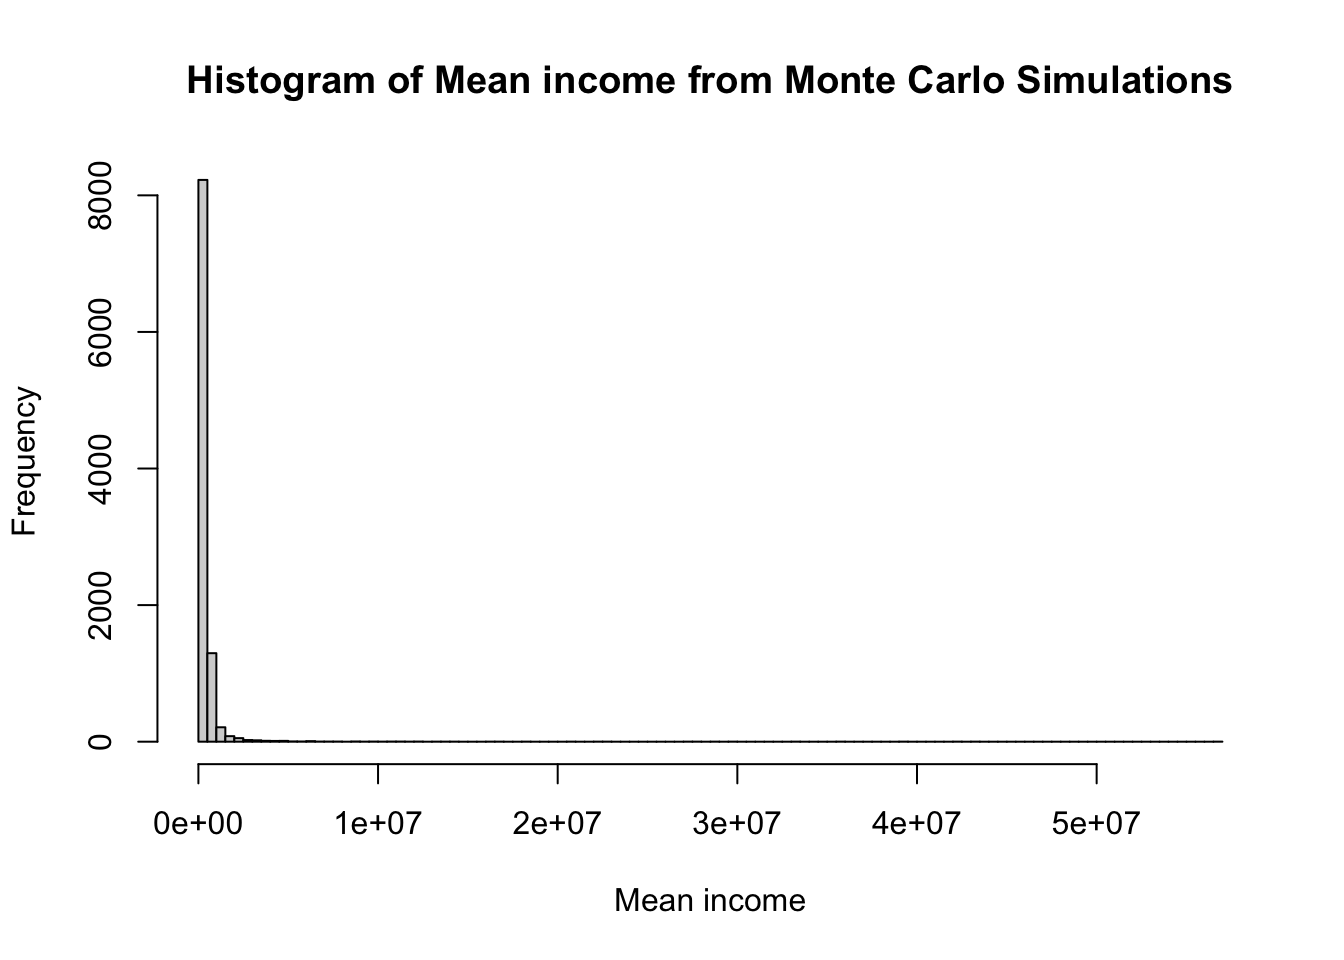
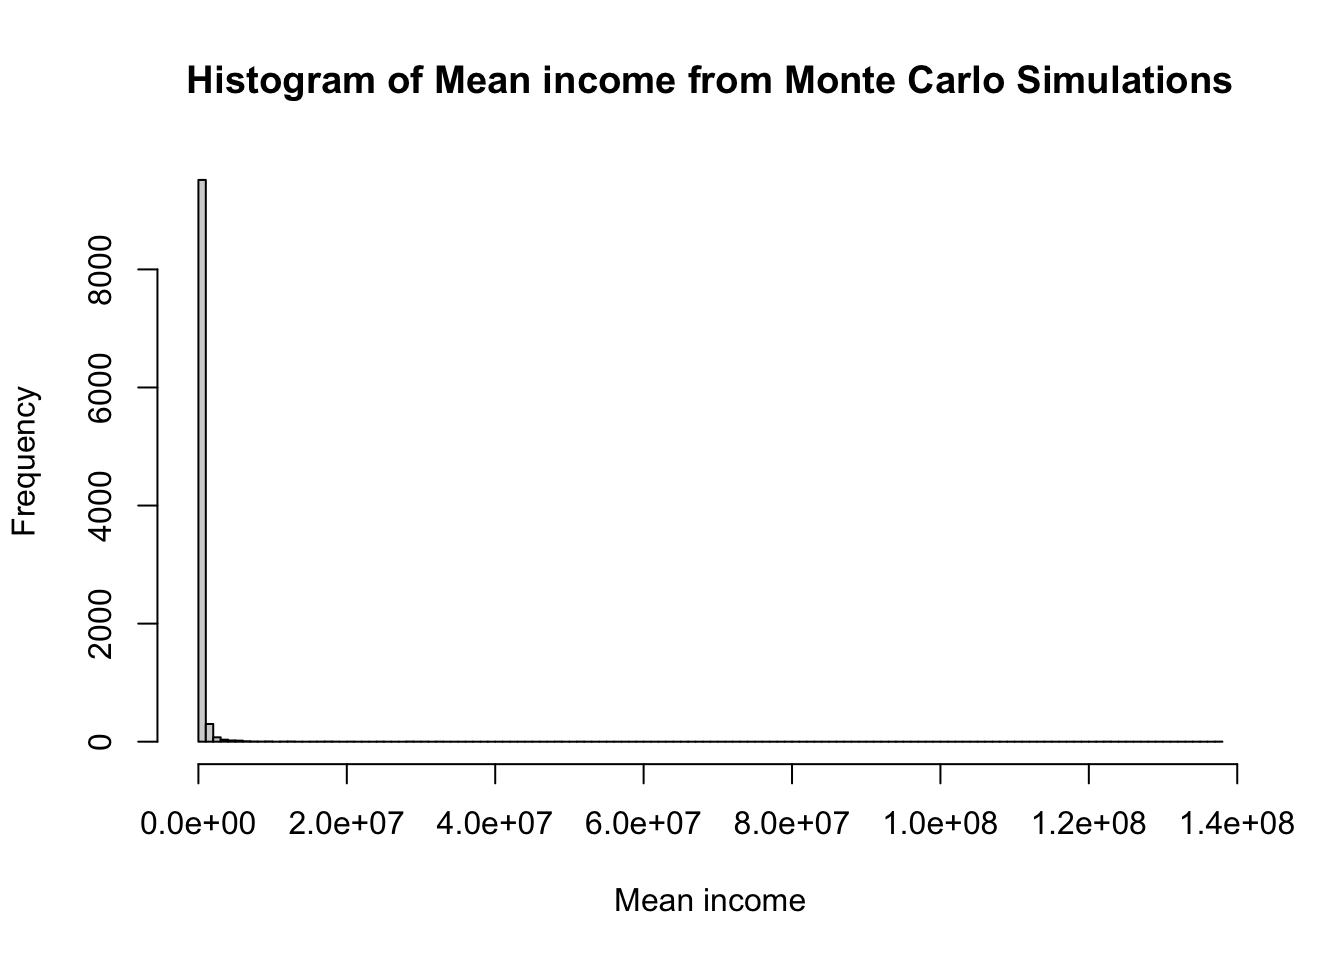
option

diff --git a/docs/Catallactics/Personal/pricing.html b/docs/Catallactics/Personal/pricing.html
@@ -821,7 +821,7 @@ cookieconsent.run({
   </ul></li>
   <li><a href="#option-pricing-calculation" id="toc-option-pricing-calculation" class="nav-link" data-scroll-target="#option-pricing-calculation">Option pricing calculation</a></li>
   <li><a href="#take-home-message" id="toc-take-home-message" class="nav-link" data-scroll-target="#take-home-message">Take home message</a></li>
-  <li><a href="#monitising-the-hedge" id="toc-monitising-the-hedge" class="nav-link" data-scroll-target="#monitising-the-hedge"><strong>Monitising the hedge</strong></a></li>
+  <li><a href="#monetising-the-hedge" id="toc-monetising-the-hedge" class="nav-link" data-scroll-target="#monetising-the-hedge"><strong>Monetising the hedge</strong></a></li>
   </ul>
 </nav>
     </div>
@@ -901,10 +901,10 @@ cookieconsent.run({
 <span id="cb4-2"><a href="#cb4-2" aria-hidden="true" tabindex="-1"></a><span class="fu">library</span>(RQuantLib)</span>
 <span id="cb4-3"><a href="#cb4-3" aria-hidden="true" tabindex="-1"></a></span>
 <span id="cb4-4"><a href="#cb4-4" aria-hidden="true" tabindex="-1"></a><span class="co"># Define option parameters for a single observation</span></span>
-<span id="cb4-5"><a href="#cb4-5" aria-hidden="true" tabindex="-1"></a>nifty_price<span class="ot">&lt;-</span><span class="fl">21884.5</span></span>
-<span id="cb4-6"><a href="#cb4-6" aria-hidden="true" tabindex="-1"></a>option_price <span class="ot">&lt;-</span> <span class="dv">238</span>  <span class="co"># Current market price of the option</span></span>
-<span id="cb4-7"><a href="#cb4-7" aria-hidden="true" tabindex="-1"></a>strike_price <span class="ot">&lt;-</span> <span class="dv">20000</span>  <span class="co"># Strike price of the option</span></span>
-<span id="cb4-8"><a href="#cb4-8" aria-hidden="true" tabindex="-1"></a>time_to_expiry <span class="ot">&lt;-</span> <span class="dv">210</span><span class="sc">/</span><span class="dv">365</span>  <span class="co"># Time to expiration in years</span></span>
+<span id="cb4-5"><a href="#cb4-5" aria-hidden="true" tabindex="-1"></a>nifty_price<span class="ot">&lt;-</span><span class="fl">23290.5</span></span>
+<span id="cb4-6"><a href="#cb4-6" aria-hidden="true" tabindex="-1"></a>option_price <span class="ot">&lt;-</span> <span class="dv">105</span>  <span class="co"># Current market price of the option</span></span>
+<span id="cb4-7"><a href="#cb4-7" aria-hidden="true" tabindex="-1"></a>strike_price <span class="ot">&lt;-</span> <span class="dv">22500</span>  <span class="co"># Strike price of the option</span></span>
+<span id="cb4-8"><a href="#cb4-8" aria-hidden="true" tabindex="-1"></a>time_to_expiry <span class="ot">&lt;-</span> <span class="dv">19</span><span class="sc">/</span><span class="dv">365</span>  <span class="co"># Time to expiration in years</span></span>
 <span id="cb4-9"><a href="#cb4-9" aria-hidden="true" tabindex="-1"></a>risk_free_rate <span class="ot">&lt;-</span> <span class="fl">0.071</span>   <span class="co"># Risk-free interest rate</span></span>
 <span id="cb4-10"><a href="#cb4-10" aria-hidden="true" tabindex="-1"></a>volatility_guess <span class="ot">&lt;-</span> <span class="fl">0.2</span>  <span class="co"># Initial guess for the volatility</span></span>
 <span id="cb4-11"><a href="#cb4-11" aria-hidden="true" tabindex="-1"></a></span>
@@ -915,12 +915,12 @@ cookieconsent.run({
 <span id="cb4-16"><a href="#cb4-16" aria-hidden="true" tabindex="-1"></a>vol</span></code><button title="Copy to Clipboard" class="code-copy-button"><i class="bi"></i></button></pre></div>
 </details>
 <div class="cell-output cell-output-stdout">
-<pre><code>[1] 0.1764878
+<pre><code>[1] 0.1903814
 attr(,"class")
 [1] "EuropeanOptionImpliedVolatility" "ImpliedVolatility"              </code></pre>
 </div>
 </div>
-<p>At present the <strong>implied volatility is 18</strong></p>
+<p>At present the <strong>implied volatility is 19</strong></p>
 </section>
 </section>
 <section id="option-pricing-calculation" class="level2">
@@ -970,10 +970,10 @@ attr(,"class")
 <div class="cell-output cell-output-stdout">
 <pre><code>Concise summary of valuation for EuropeanOption 
     value     delta     gamma      vega     theta       rho    divRho 
-  27.7263   -0.0294    0.0000  892.9062 -189.7557 -233.7439  224.6558 </code></pre>
+  41.7922   -0.0393    0.0000 1132.2981 -260.9055 -313.5946  299.8960 </code></pre>
 </div>
 </div>
-<p>Price of a <strong>4 month 5 delta option</strong> is 28 for the given strike price</p>
+<p>Price of a <strong>4 month 5 delta option</strong> is 42 for the given strike price</p>
 </section>
 <section id="take-home-message" class="level2">
 <h2 class="anchored" data-anchor-id="take-home-message">Take home message</h2>
@@ -1005,7 +1005,7 @@ Summary
 <div class="cell-output cell-output-stdout">
 <pre><code>Concise summary of valuation for EuropeanOption 
      value      delta      gamma       vega      theta        rho     divRho 
-  237.9412    -0.1480     0.0001  3835.1214  -341.6725 -1999.4989  1862.6827 </code></pre>
+  293.1177    -0.1638     0.0001  4100.4435  -403.4529 -2230.1221  2061.5794 </code></pre>
 </div>
 <details class="code-fold">
 <summary>Code</summary>
@@ -1016,8 +1016,8 @@ Summary
 </div>
 </div>
 </section>
-<section id="monitising-the-hedge" class="level2">
-<h2 class="anchored" data-anchor-id="monitising-the-hedge"><strong>Monitising the hedge</strong></h2>
+<section id="monetising-the-hedge" class="level2">
+<h2 class="anchored" data-anchor-id="monetising-the-hedge"><strong>Monetising the hedge</strong></h2>
 <p><strong>§a</strong> passive - at the time of expiry.</p>
 <p><strong>§b</strong> Empirical multiples of Initial cost.&nbsp;</p>
 <p><strong>§a</strong> is ideal for long time horizon with potential big drawdown happening once or twice. <strong>§b</strong> out performs <strong>§a</strong> if no such tail events occur. In such a situation, even no-hedge strategy performs better than one with a hedge.&nbsp;</p>

diff --git a/docs/Revision notes/Adult pathology/polio.html b/docs/Revision notes/Adult pathology/polio.html
@@ -764,7 +764,37 @@ cookieconsent.run({
 <div id="quarto-sidebar-glass" class="quarto-sidebar-collapse-item" data-bs-toggle="collapse" data-bs-target=".quarto-sidebar-collapse-item"></div>
 <!-- margin-sidebar -->
     <div id="quarto-margin-sidebar" class="sidebar margin-sidebar"><div class="quarto-margin-header"><div class="margin-header-item">
-<p>subscribe.html</p>
+<div id="mc_embed_shell">
+      <link href="//cdn-images.mailchimp.com/embedcode/classic-061523.css" rel="stylesheet" type="text/css">
+  <style type="text/css">
+        #mc_embed_signup{background:#fff; false;clear:left; font:14px Helvetica,Arial,sans-serif; width: px;}
+        /* Add your own Mailchimp form style overrides in your site stylesheet or in this style block.
+           We recommend moving this block and the preceding CSS link to the HEAD of your HTML file. */
+</style>
+<div id="mc_embed_signup">
+    <form action="https://knotes.us17.list-manage.com/subscribe/post?u=cbd11e712b45e98cdaab2dd4d&amp;id=aeaca1e768&amp;f_id=00dbc2e1f0" method="post" id="mc-embedded-subscribe-form" name="mc-embedded-subscribe-form" class="validate" target="_blank">
+        <div id="mc_embed_signup_scroll"><h2>Subscribe</h2>
+            <div class="indicates-required"><span class="asterisk">*</span> indicates required</div>
+            <div class="mc-field-group"><label for="mce-EMAIL">Email Address <span class="asterisk">*</span></label><input type="email" name="EMAIL" class="required email" id="mce-EMAIL" required="" value=""></div>
+        <div id="mce-responses" class="clear foot">
+            <div class="response" id="mce-error-response" style="display: none;"></div>
+            <div class="response" id="mce-success-response" style="display: none;"></div>
+        </div>
+    <div aria-hidden="true" style="position: absolute; left: -5000px;">
+        /* real people should not fill this in and expect good things - do not remove this or risk form bot signups */
+        <input type="text" name="b_cbd11e712b45e98cdaab2dd4d_aeaca1e768" tabindex="-1" value="">
+    </div>
+        <div class="optionalParent">
+            <div class="clear foot">
+                <input type="submit" name="subscribe" id="mc-embedded-subscribe" class="button" value="Subscribe">
+                
+            </div>
+        </div>
+    </div>
+</form>
+</div>
+<script type="text/javascript" src="//s3.amazonaws.com/downloads.mailchimp.com/js/mc-validate.js"></script><script type="text/javascript">(function($) {window.fnames = new Array(); window.ftypes = new Array();fnames[0]='EMAIL';ftypes[0]='email';fnames[1]='FNAME';ftypes[1]='text';fnames[2]='LNAME';ftypes[2]='text';fnames[3]='ADDRESS';ftypes[3]='address';fnames[4]='PHONE';ftypes[4]='phone';fnames[5]='BIRTHDAY';ftypes[5]='birthday';}(jQuery));var $mcj = jQuery.noConflict(true);</script></div>
+
 </div></div>
         <nav id="TOC" role="doc-toc" class="toc-active">
     <h2 id="toc-title">On this page</h2>

diff --git a/docs/posts/HGT.html b/docs/posts/HGT.html
@@ -766,7 +766,37 @@ cookieconsent.run({
 <div id="quarto-sidebar-glass" class="quarto-sidebar-collapse-item" data-bs-toggle="collapse" data-bs-target=".quarto-sidebar-collapse-item"></div>
 <!-- margin-sidebar -->
     <div id="quarto-margin-sidebar" class="sidebar margin-sidebar"><div class="quarto-margin-header"><div class="margin-header-item">
-<p>subscribe.html</p>
+<div id="mc_embed_shell">
+      <link href="//cdn-images.mailchimp.com/embedcode/classic-061523.css" rel="stylesheet" type="text/css">
+  <style type="text/css">
+        #mc_embed_signup{background:#fff; false;clear:left; font:14px Helvetica,Arial,sans-serif; width: px;}
+        /* Add your own Mailchimp form style overrides in your site stylesheet or in this style block.
+           We recommend moving this block and the preceding CSS link to the HEAD of your HTML file. */
+</style>
+<div id="mc_embed_signup">
+    <form action="https://knotes.us17.list-manage.com/subscribe/post?u=cbd11e712b45e98cdaab2dd4d&amp;id=aeaca1e768&amp;f_id=00dbc2e1f0" method="post" id="mc-embedded-subscribe-form" name="mc-embedded-subscribe-form" class="validate" target="_blank">
+        <div id="mc_embed_signup_scroll"><h2>Subscribe</h2>
+            <div class="indicates-required"><span class="asterisk">*</span> indicates required</div>
+            <div class="mc-field-group"><label for="mce-EMAIL">Email Address <span class="asterisk">*</span></label><input type="email" name="EMAIL" class="required email" id="mce-EMAIL" required="" value=""></div>
+        <div id="mce-responses" class="clear foot">
+            <div class="response" id="mce-error-response" style="display: none;"></div>
+            <div class="response" id="mce-success-response" style="display: none;"></div>
+        </div>
+    <div aria-hidden="true" style="position: absolute; left: -5000px;">
+        /* real people should not fill this in and expect good things - do not remove this or risk form bot signups */
+        <input type="text" name="b_cbd11e712b45e98cdaab2dd4d_aeaca1e768" tabindex="-1" value="">
+    </div>
+        <div class="optionalParent">
+            <div class="clear foot">
+                <input type="submit" name="subscribe" id="mc-embedded-subscribe" class="button" value="Subscribe">
+                
+            </div>
+        </div>
+    </div>
+</form>
+</div>
+<script type="text/javascript" src="//s3.amazonaws.com/downloads.mailchimp.com/js/mc-validate.js"></script><script type="text/javascript">(function($) {window.fnames = new Array(); window.ftypes = new Array();fnames[0]='EMAIL';ftypes[0]='email';fnames[1]='FNAME';ftypes[1]='text';fnames[2]='LNAME';ftypes[2]='text';fnames[3]='ADDRESS';ftypes[3]='address';fnames[4]='PHONE';ftypes[4]='phone';fnames[5]='BIRTHDAY';ftypes[5]='birthday';}(jQuery));var $mcj = jQuery.noConflict(true);</script></div>
+
 </div></div>
         <nav id="TOC" role="doc-toc" class="toc-active">
     <h2 id="toc-title">On this page</h2>

diff --git a/docs/posts/montecarlo.html b/docs/posts/montecarlo.html
@@ -1016,8 +1016,8 @@ Income distribution is not normal
 <span id="cb7-2"><a href="#cb7-2" aria-hidden="true" tabindex="-1"></a><span class="fu">summary</span>(mean_income)</span></code><button title="Copy to Clipboard" class="code-copy-button"><i class="bi"></i></button></pre></div>
 </details>
 <div class="cell-output cell-output-stdout">
-<pre><code>    Min.  1st Qu.   Median     Mean  3rd Qu.     Max. 
-  213024   296078   345097   521034   439526 56635934 </code></pre>
+<pre><code>     Min.   1st Qu.    Median      Mean   3rd Qu.      Max. 
+   213098    297893    345115    534648    437375 137745603 </code></pre>
 </div>
 <details open="" class="code-fold">
 <summary>Code</summary>
@@ -1025,7 +1025,7 @@ Income distribution is not normal
 </details>
 <div class="cell-output cell-output-stdout">
 <pre><code>   Min. 1st Qu.  Median    Mean 3rd Qu.    Max. 
-  61893   64088   64514   64510   64939   67075 </code></pre>
+  61807   64072   64507   64514   64947   67587 </code></pre>
 </div>
 <details open="" class="code-fold">
 <summary>Code</summary>
@@ -1033,7 +1033,7 @@ Income distribution is not normal
 </details>
 <div class="cell-output cell-output-stdout">
 <pre><code>     Min.   1st Qu.    Median      Mean   3rd Qu.      Max. 
-1.020e+06 3.371e+06 5.688e+06 2.265e+07 1.194e+07 5.631e+09 </code></pre>
+1.046e+06 3.387e+06 5.782e+06 2.401e+07 1.192e+07 1.375e+10 </code></pre>
 </div>
 </div>
 </section>

diff --git a/docs/Revision notes/Diagrams/diagrams.html b/docs/Revision notes/Diagrams/diagrams.html
@@ -1297,7 +1297,7 @@ window.document.addEventListener("DOMContentLoaded", function (event) {
 </div>
   </div>
 </footer>
-<script>var lightboxQuarto = GLightbox({"openEffect":"zoom","loop":false,"descPosition":"bottom","selector":".lightbox","closeEffect":"zoom"});
+<script>var lightboxQuarto = GLightbox({"closeEffect":"zoom","selector":".lightbox","openEffect":"zoom","loop":false,"descPosition":"bottom"});
 window.onload = () => {
   lightboxQuarto.on('slide_before_load', (data) => {
     const { slideIndex, slideNode, slideConfig, player, trigger } = data;
